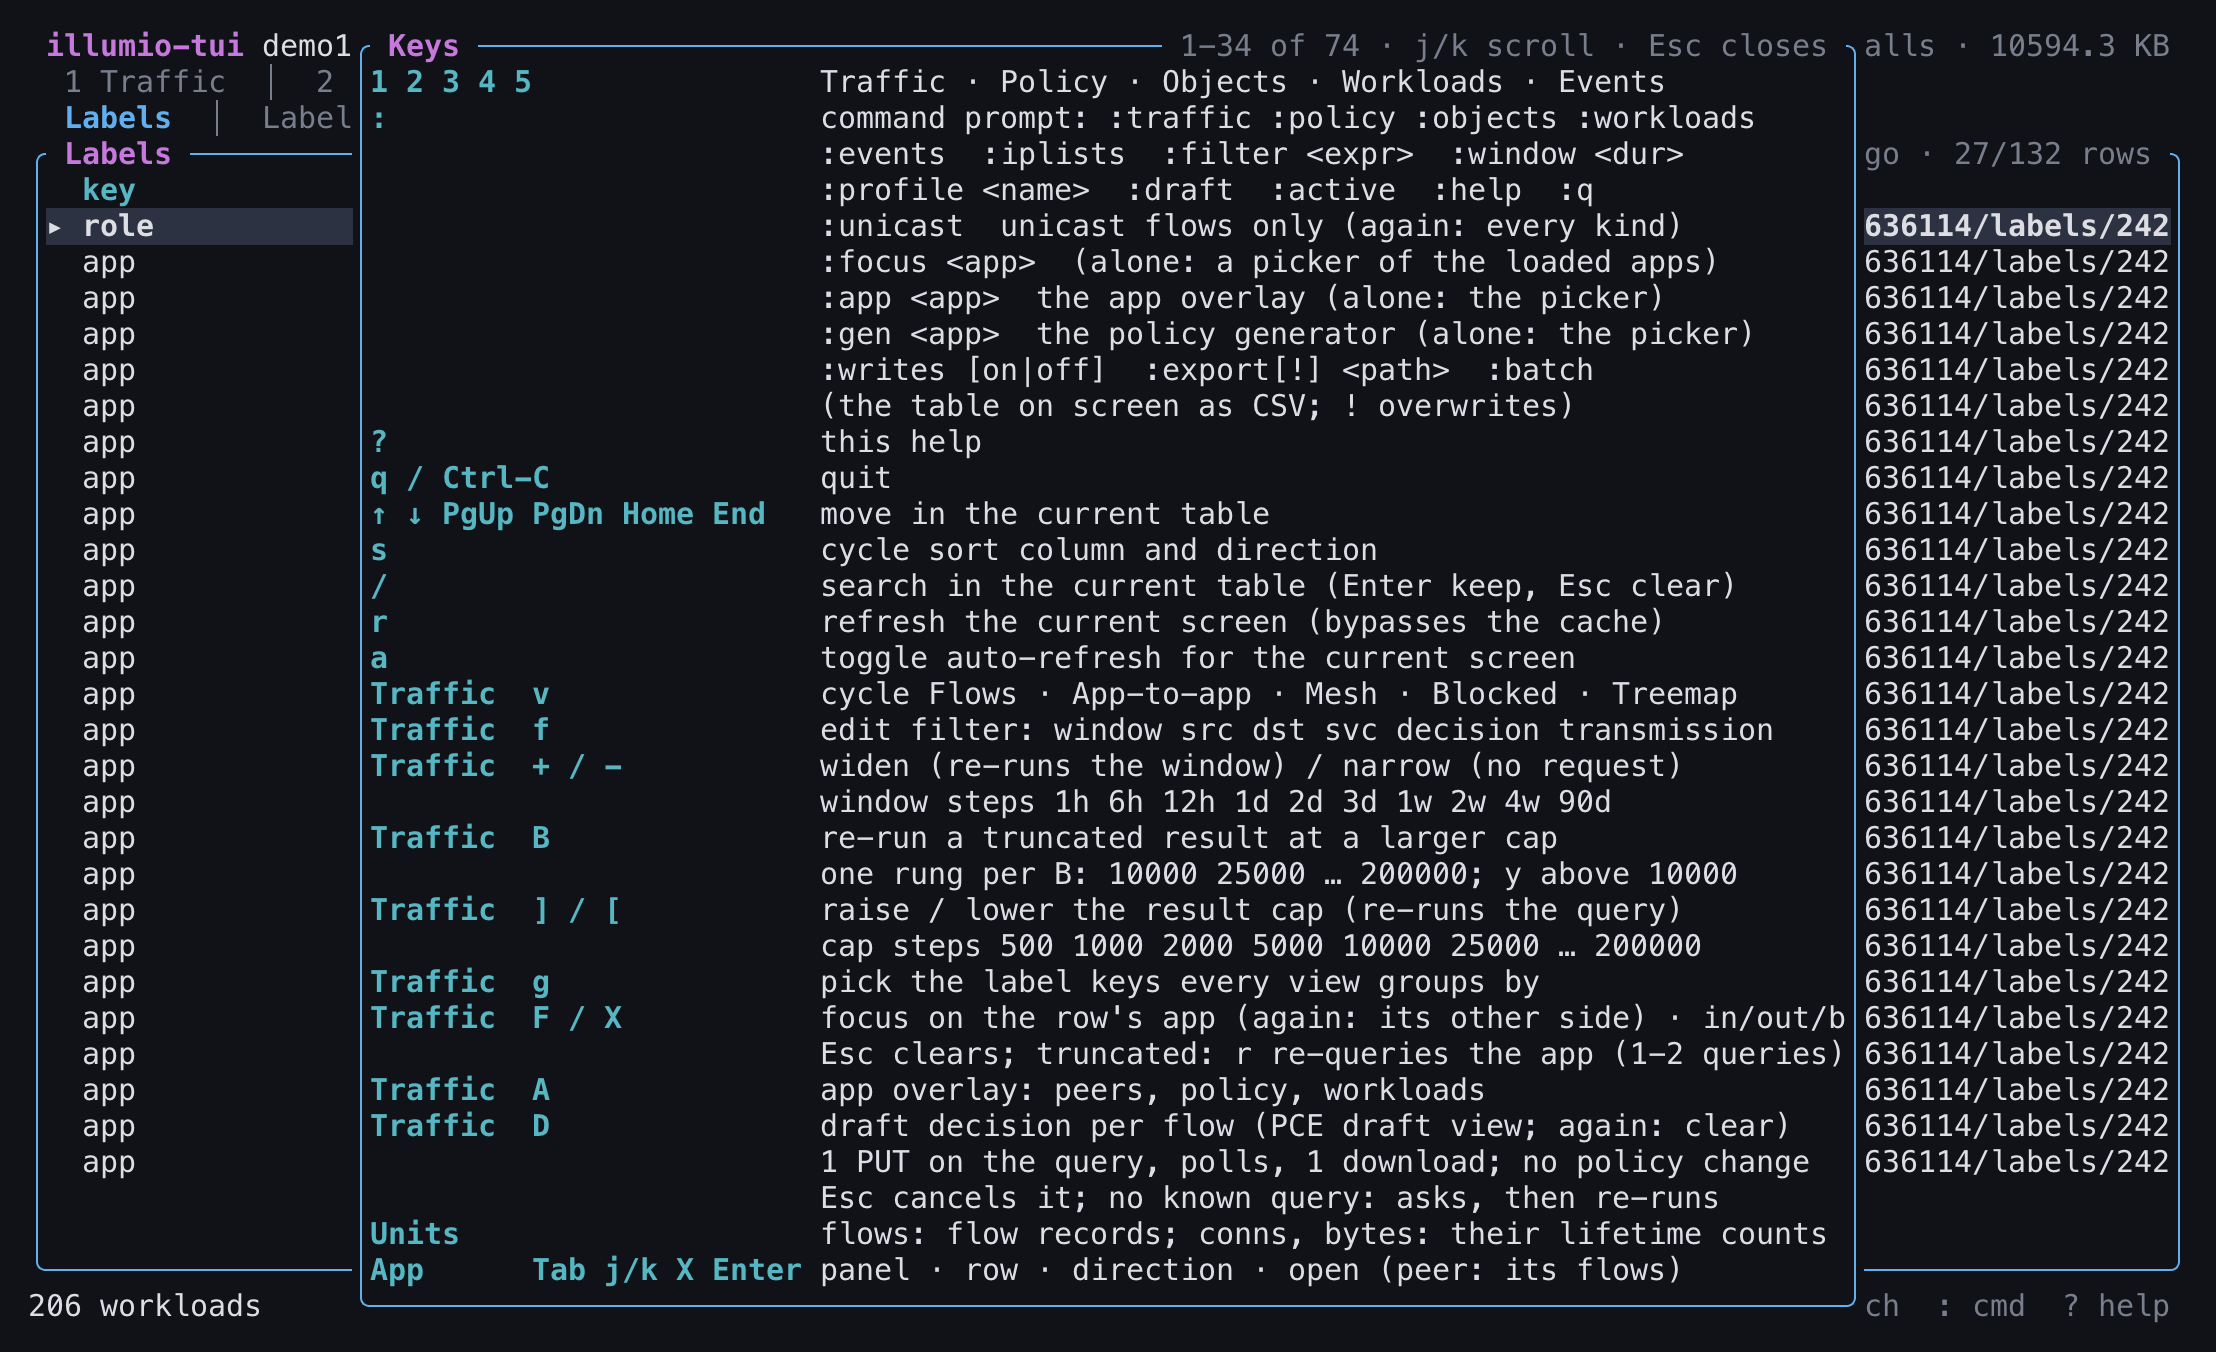
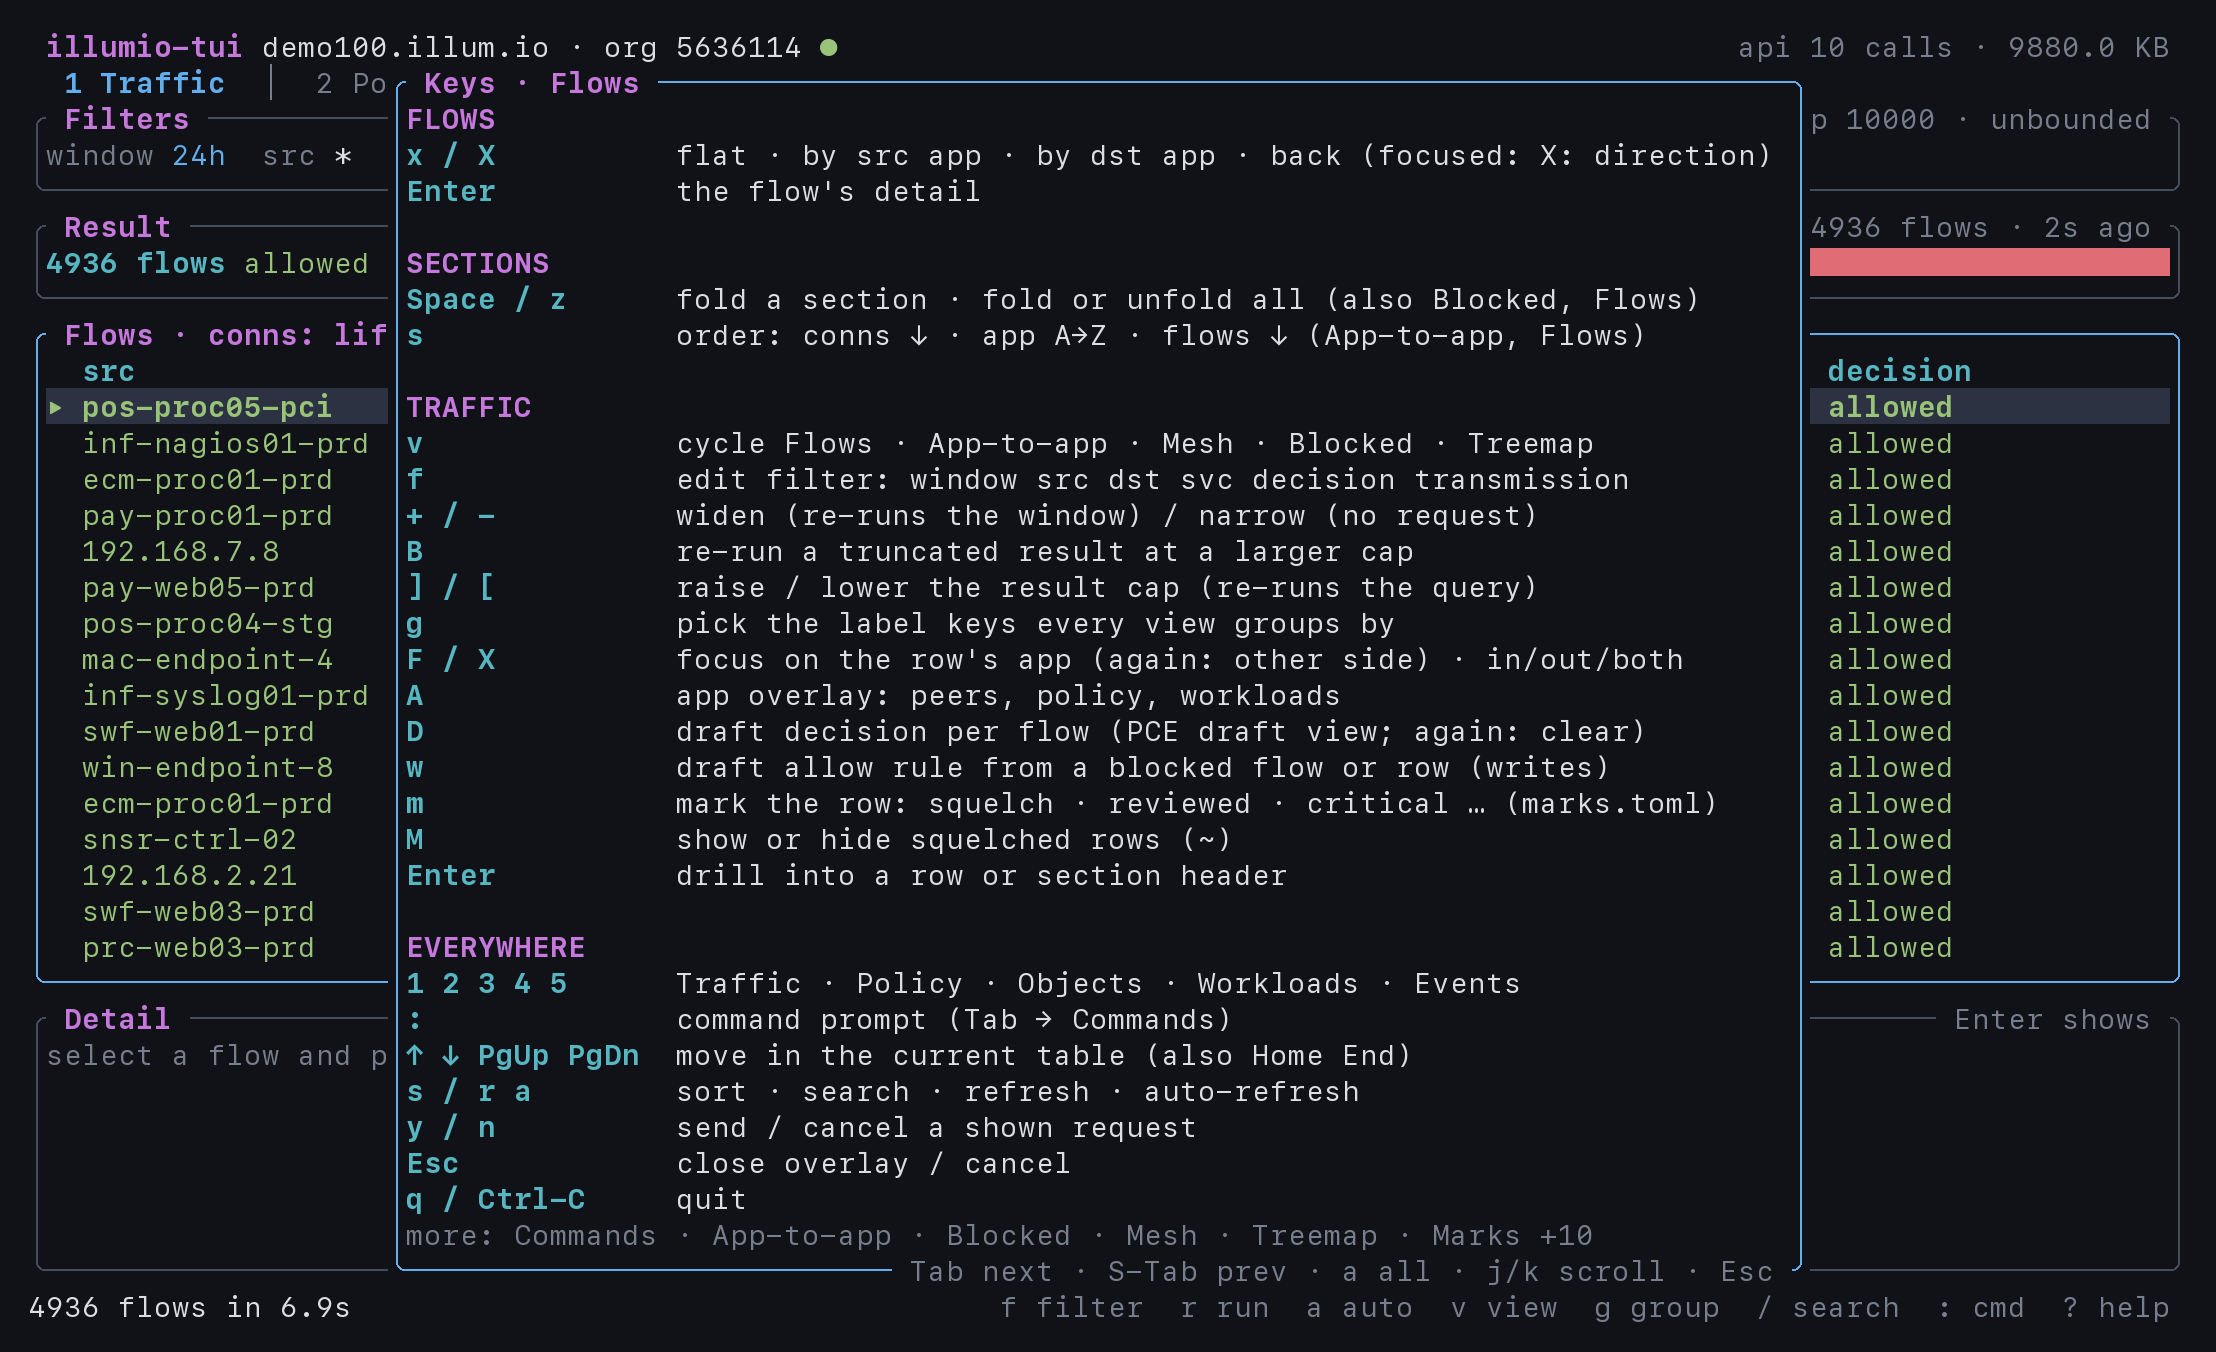
docs: retake the help screenshot (grouped, context-first help)
Claude-Session: https://claude.ai/code/session_01XYuSvdRqoZDGp9ZTwrZ2tx

Changed region(s): [[0.0, 0.0311, 0.9964, 0.9941], [0.0, 0.932, 0.1557, 0.9941], [0.8096, 0.963, 0.8407, 0.9941]]

diff --git a/docs/index.html b/docs/index.html
@@ -154,7 +154,7 @@ illumio-tui 0.3.2</code></pre>
       <figcaption><kbd>4</kbd> Workloads with VEN health.</figcaption>
     </figure>
     <figure class="shot">
-      <img src="assets/help.png" alt="The key map overlay opened with ?, rows 1 to 34 of 74: the colon commands, the global keys and the Traffic keys" width="2216" height="1352" loading="lazy">
+      <img src="assets/help.png" alt="The help overlay opened with ? on the Traffic Flows view, titled Keys · Flows: the keys for the current context come first in grouped sections (Flows, Sections, Traffic), then the keys that work everywhere, with a footer listing the other contexts (Commands, App-to-app, Blocked, Mesh, Treemap, Marks) reachable with Tab" width="2216" height="1352" loading="lazy">
       <figcaption><kbd>?</kbd> The key map.</figcaption>
     </figure>
   </div>
